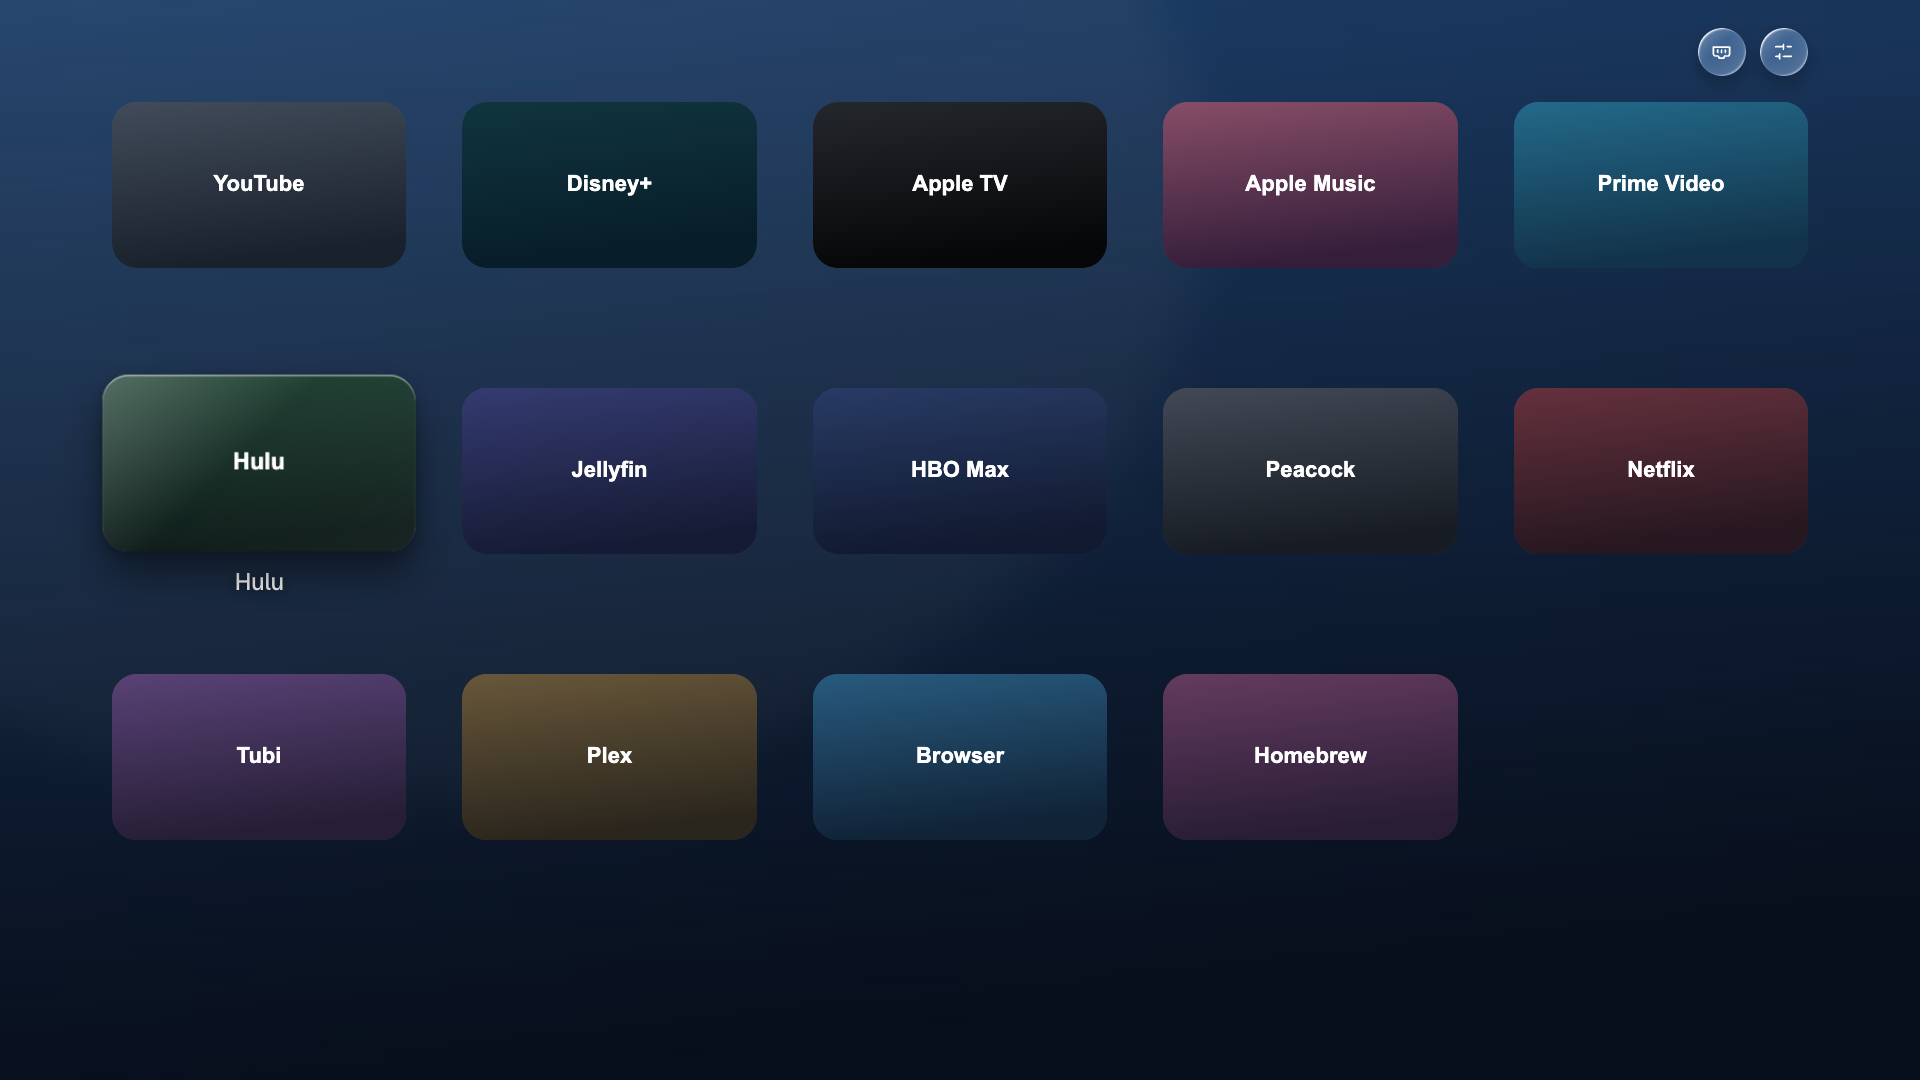
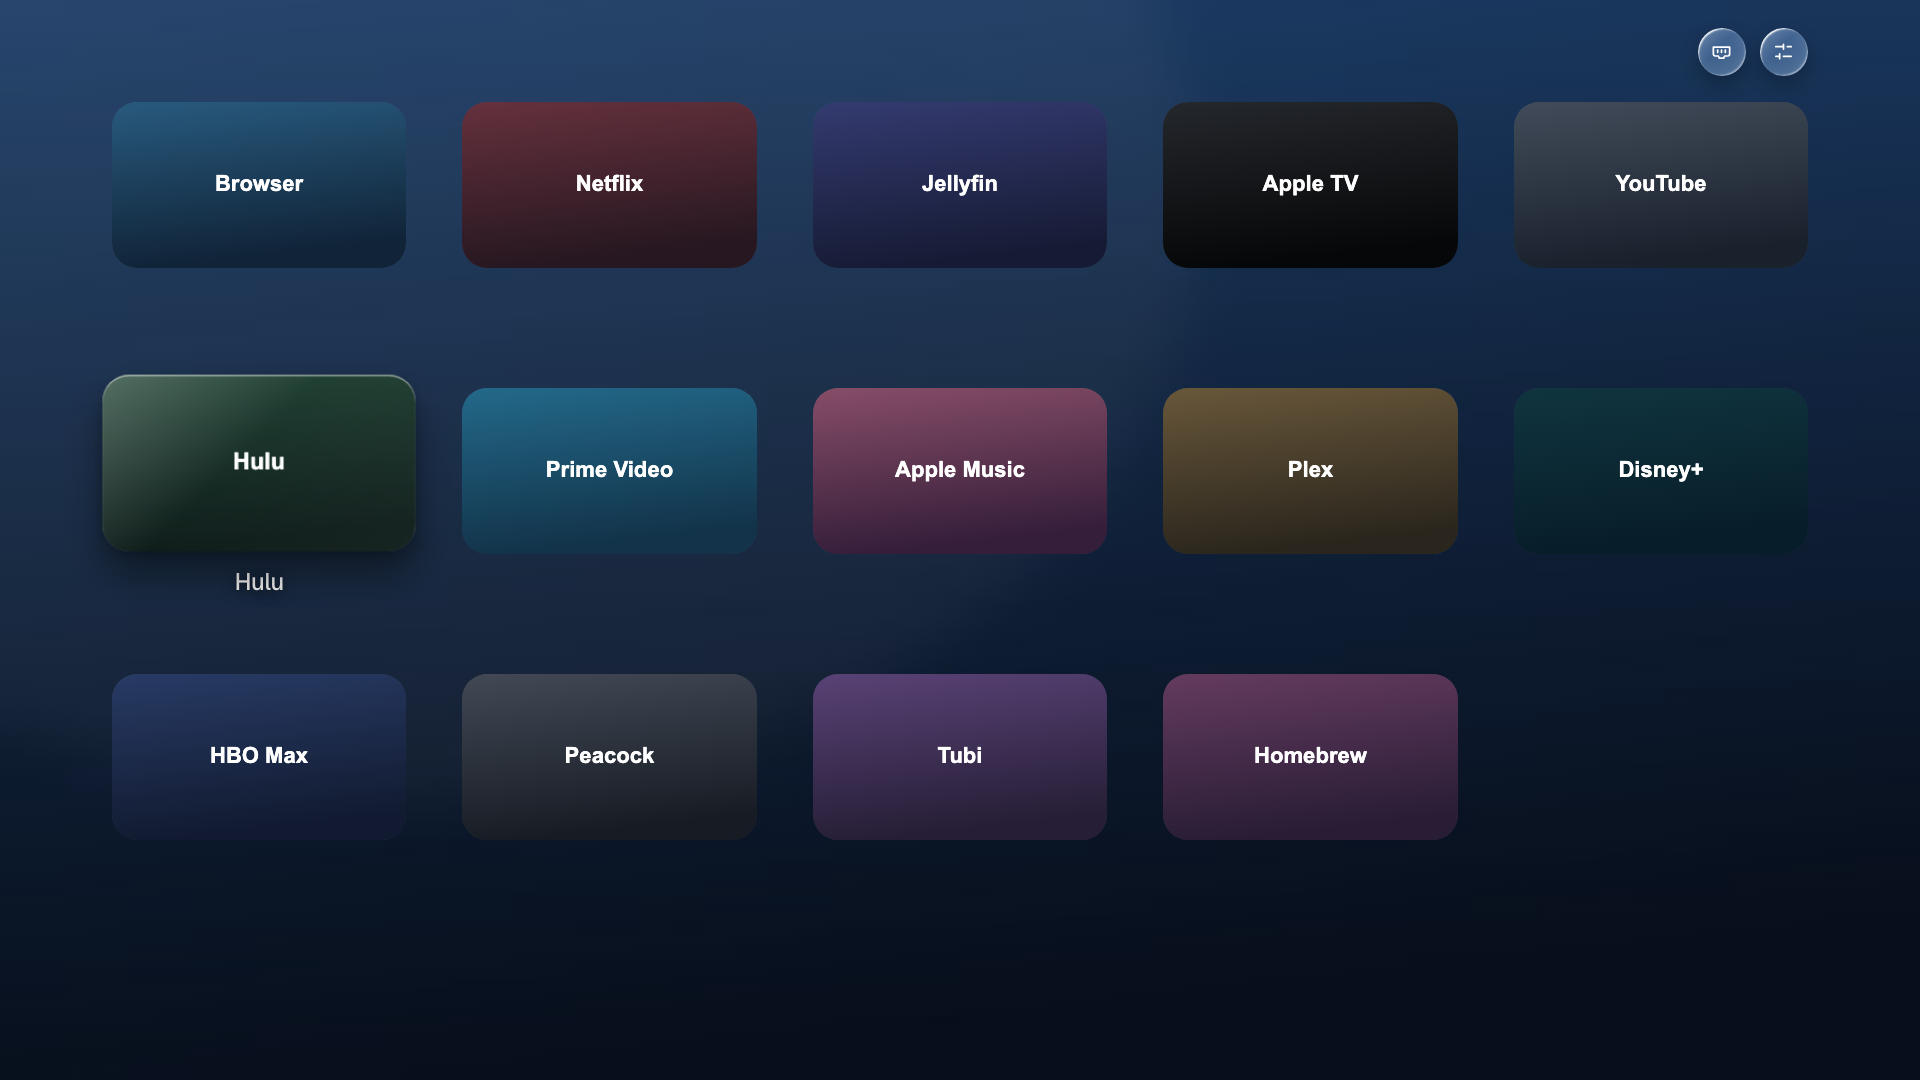
docs: add sanitized trial screenshot gallery

Changed region(s): [[0.0312, 0.0917, 0.9688, 0.275], [0.2188, 0.3361, 0.9688, 0.5194], [0.0312, 0.6111, 0.5938, 0.7639]]

diff --git a/docs/trial/README.md b/docs/trial/README.md
@@ -1,0 +1,37 @@
+# Trial browser previews
+
+These six 1920 × 1080 screenshots show the public 0.3.13 trial UI. They are browser
+captures of the real components with synthetic content, rather than TV captures.
+
+| File | View |
+| --- | --- |
+| `home.png` | Collapsed Home dock with generated app cards |
+| `grid.png` | Expanded five-column grid |
+| `inputs.png` | Mock AV/HDMI connection and active-input states |
+| `control-center.png` | Dark appearance, focused volume at 50 |
+| `control-center-light.png` | Light appearance, the same volume and layout |
+| `photo-frame.png` | Photo-frame UI with an original generated landscape |
+
+The clock is fixed to January 15, 2026, 09:41 UTC. App order, input names and control
+values are explicitly constructed in `trial/screenshot-previews.mjs`. Weather and
+Recent are hidden, and navigation sounds are Off. The photo-frame artwork is the
+original vector fixture `trial/fixtures/preview-landscape.svg`; it represents the
+photo area without reproducing a private or third-party photograph.
+
+The capture script creates isolated browser contexts, clears their storage and
+never reads a TV, personal browser profile or device backup. It permits only the
+local preview server; Bing responses are fulfilled from fixtures and other HTTP
+requests are blocked. No credentials, account names, network addresses, location,
+personal artwork, recent history or extracted TV icons are included.
+
+After following the build and browser setup in [the trial guide](../../trial/README.md),
+run this from the repository root:
+
+```sh
+node trial/run-tests.mjs screenshot-previews.mjs
+```
+
+The runner starts a preview bound to `127.0.0.1:5187` and stops it afterward.
+Set `CHROMIUM_PATH` to an existing Chromium executable if needed. The capture report
+is written to the ignored `.trial-evidence/screenshot-preview-results.json`.
+Inspect each image before publishing; automated checks only supplement that review.

diff --git a/trial/README.md b/trial/README.md
@@ -5,11 +5,20 @@ an in-app photo frame, and shared Inputs / Control Center panels. It is based on
 Lumen `497e9182fd9d0d12d7ed9bfbafc0ee15d7139a79` and installs separately as
 `local.lumen.trial` (version 0.3.13), preserving the original Lumen installation.
 
-These browser previews use synthetic preferences and generated text cards, not TV data:
+These browser previews use a fixed demo clock, synthetic app order and TV controls,
+generated text cards and original abstract artwork. Weather is hidden. They contain
+no device captures, personal preferences, history, accounts or location. The photo
+frame uses a generated landscape in place of an online photograph.
 
-![Expanded app grid](../docs/trial/grid.png)
-![Control Center](../docs/trial/control-center.png)
-![Input selection](../docs/trial/inputs.png)
+| Home | Expanded app grid |
+| --- | --- |
+| ![Home with generated app cards](../docs/trial/home.png) | ![Five-column app grid](../docs/trial/grid.png) |
+| **Inputs** | **Control Center — dark** |
+| ![Input selection with synthetic connection states](../docs/trial/inputs.png) | ![Focused volume pill at a demo value of 50](../docs/trial/control-center.png) |
+| **Photo frame** | **Control Center — light** |
+| ![Photo frame with generated landscape and fixed clock](../docs/trial/photo-frame.png) | ![The same volume pill in light appearance](../docs/trial/control-center-light.png) |
+
+See [screenshot provenance and reproduction](../docs/trial/README.md).
 
 ## Build from a fresh checkout
 
